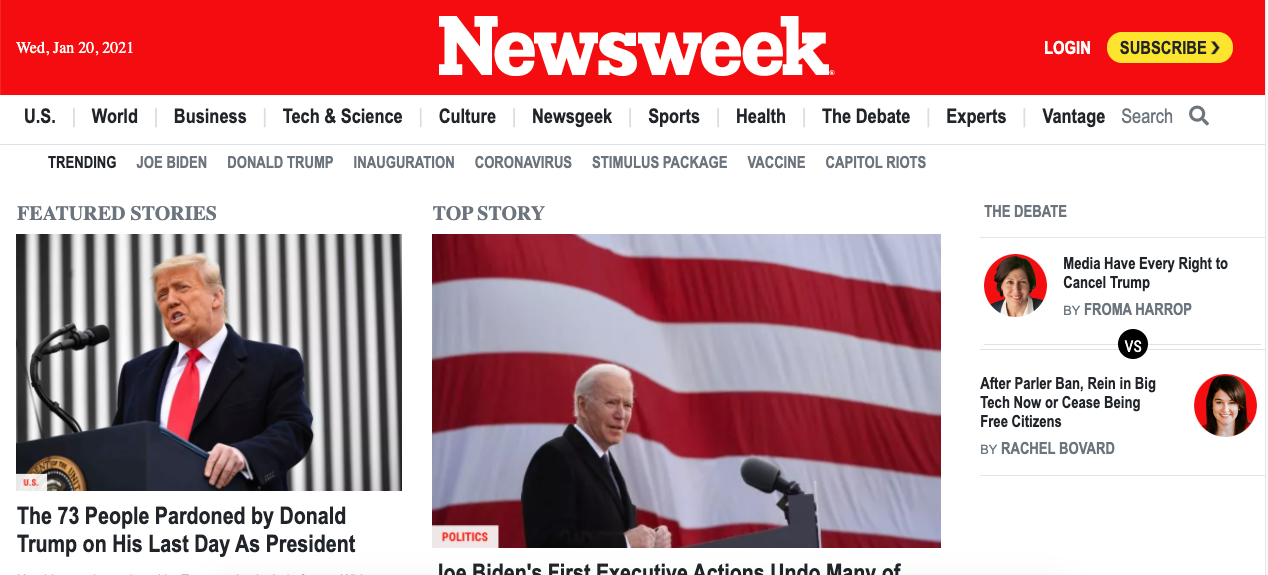
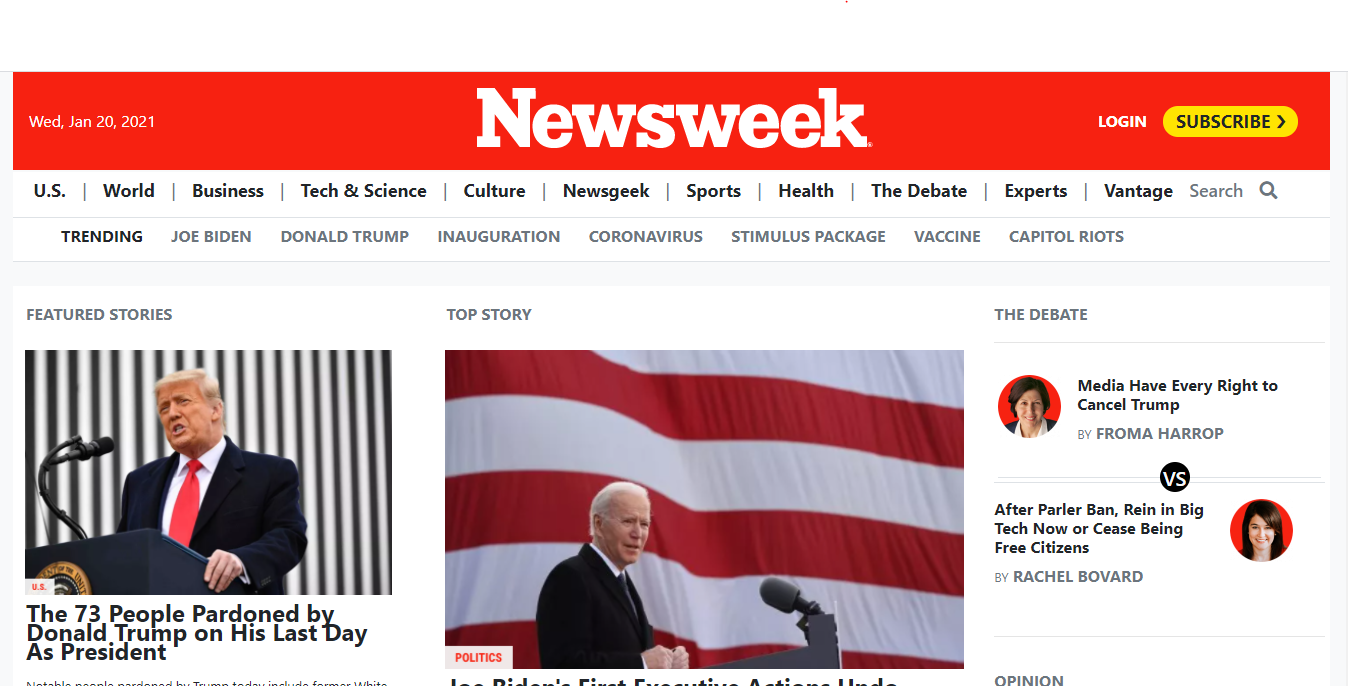
Recreated readme and Fixed all linter errors

diff --git a/index.html b/index.html
@@ -20,13 +20,13 @@
     <!-- Google fonts link -->
     <link rel="preconnect" href="https://fonts.gstatic.com">
     <link href="https://fonts.googleapis.com/css2?family=Roboto+Condensed&display=swap" rel="stylesheet">
-
-    <title>Newsweek</title>
+    <div class="font-weight-bold order-1 h3 text-white mr-3 ml-4 px-2 n-word background my-auto">N</div>
+    <title>Newsweek - News, Analysis, Politics, Business, Technology</title>
 </head>
 
 <body class="bg-light">
-    <header class="mx-xl-5">
-        <nav class="navbar background mx-xl-5 fixed-top py-2 py-md-1 py-lg-3">
+    <header class="mx-xl-3">
+        <nav class="navbar background mx-xl-3 fixed-top py-2 py-md-1 py-lg-3">
             
                 <span class="d-none d-lg-inline-block text-white pr-5">Wed, Jan 20, 2021</span>
             <div>
@@ -47,25 +47,25 @@
             <div class="border-bottom py-2 bg-white">
                 <ul class="list-inline d-flex justify-content-around h5">
                     <li class="list-inline-item font-weight-bold pl-3"><a href="#">U.S.</a></li>
-                    <li class="list-inline-item small">|</li>
+                    <li class="list-inline-item small text-secondary">|</li>
                     <li class="list-inline-item font-weight-bold"><a href="#">World</a></li>
-                    <li class="list-inline-item small">|</li>
+                    <li class="list-inline-item small text-secondary">|</li>
                     <li class="list-inline-item font-weight-bold"><a href="#">Business</a></li>
-                    <li class="list-inline-item small">|</li>
+                    <li class="list-inline-item small text-secondary">|</li>
                     <li class="list-inline-item font-weight-bold"><a href="#">Tech & Science</a></li>
-                    <li class="list-inline-item small">|</li>
+                    <li class="list-inline-item small text-secondary">|</li>
                     <li class="list-inline-item font-weight-bold"><a href="#">Culture</a></li>
-                    <li class="list-inline-item small">|</li>
+                    <li class="list-inline-item small text-secondary">|</li>
                     <li class="list-inline-item font-weight-bold"><a href="#">Newsgeek</a></li>
-                    <li class="list-inline-item small">|</li>
+                    <li class="list-inline-item small text-secondary">|</li>
                     <li class="list-inline-item font-weight-bold"><a href="#">Sports</a></li>
-                    <li class="list-inline-item small">|</li>
+                    <li class="list-inline-item small text-secondary">|</li>
                     <li class="list-inline-item font-weight-bold"><a href="#">Health</a></li>
-                    <li class="list-inline-item small">|</li>
+                    <li class="list-inline-item small text-secondary">|</li>
                     <li class="list-inline-item font-weight-bold"><a href="#">The Debate</a></li>
-                    <li class="list-inline-item small">|</li>
+                    <li class="list-inline-item small text-secondary">|</li>
                     <li class="list-inline-item font-weight-bold"><a href="#">Experts</a></li>
-                    <li class="list-inline-item small">|</li>
+                    <li class="list-inline-item small text-secondary">|</li>
                     <li class="list-inline-item font-weight-bold"><a href="#">Vantage</a></li>
                     <li class="list-inline-item text-secondary">Search</li>
                     <li class="list-inline-item text-secondary pr-5"><i class="fas fa-search"></i></li>
@@ -74,20 +74,20 @@
 
             <div class="border-bottom py-2 bg-white">
                 <ul class="list-inline h6">
-                    <li class="list-inline-item font-weight-bold pr-3 pl-5">TRENDING</li>
-                    <li class="list-inline-item font-weight-bold text-secondary pr-3"><a href="#">JOE BIDEN</a></li>
-                    <li class="list-inline-item font-weight-bold text-secondary pr-3"><a href="#">DONALD TRUMP</a></li>
-                    <li class="list-inline-item font-weight-bold text-secondary pr-3"><a href="#">INAUGURATION</a></li>
-                    <li class="list-inline-item font-weight-bold text-secondary pr-3"><a href="#">CORONAVIRUS</a></li>
-                    <li class="list-inline-item font-weight-bold text-secondary pr-3"><a href="#">STIMULUS PACKAGE</a></li>
-                    <li class="list-inline-item font-weight-bold text-secondary pr-3"><a href="#">VACCINE</a></li>
-                    <li class="list-inline-item font-weight-bold text-secondary pr-3"><a href="#">CAPITOL RIOTS</a></li>
+                    <li class="list-inline-item font-2 font-weight-bold pr-3 pl-5">TRENDING</li>
+                    <li class="list-inline-item font-2 font-weight-bold text-secondary pr-3"><a href="#">JOE BIDEN</a></li>
+                    <li class="list-inline-item font-2 font-weight-bold text-secondary pr-3"><a href="#">DONALD TRUMP</a></li>
+                    <li class="list-inline-item font-2 font-weight-bold text-secondary pr-3"><a href="#">INAUGURATION</a></li>
+                    <li class="list-inline-item font-2 font-weight-bold text-secondary pr-3"><a href="#">CORONAVIRUS</a></li>
+                    <li class="list-inline-item font-2 font-weight-bold text-secondary pr-3"><a href="#">STIMULUS PACKAGE</a></li>
+                    <li class="list-inline-item font-2 font-weight-bold text-secondary pr-3"><a href="#">VACCINE</a></li>
+                    <li class="list-inline-item font-2 font-weight-bold text-secondary pr-3"><a href="#">CAPITOL RIOTS</a></li>
                 </ul>
             </div>
         </nav>
     </header>
 
-    <main class="bg-white mx-xl-5  px-xl-1 pt-xl-3">
+    <main class="bg-white mx-xl-3  px-xl-1 pt-xl-3">
         <div class="all-columns row pr-xl-3">
             <div class="tablet-columns row col-xl-9 m-0 p-0">
                 <!-- column-1 -->
@@ -911,7 +911,7 @@
                                 <div class="order-2 h5 font-weight-bold">START YOUR DAY WITH OUR TOP 5 ARTICLES</div>
                             </div>
                             <input type="email" placeholder="Email address" class="col-10 ml-4 py-1">
-                            <a href="#" class="none-decoration"><div class="col-10  my-2 ml-4 background"><h4 class="text-white py-1 text-center">FREE SIGN UP ></h4></div></a>
+                            <a href="#" class="none-decoration h6"><div class="col-10  my-2 ml-4 background"><h4 class="text-white py-1 text-center h6">FREE SIGN UP ></h4></div></a>
                         </div>
                     </div>
 
@@ -943,7 +943,7 @@
         </div>        
     </main>
 
-    <footer class="bg-white mx-xl-5 mt-1">
+    <footer class="bg-white mx-xl-3 mt-1">
         <div class="row">
             <div class="mt-2 col-md-3 mr-md-2 mr-lg-0 ml-3"><a href="#"><svg height="60px" width="250px" class="logo" fill="#f73710" version="1.1" id="Layer_1" xmlns="http://www.w3.org/2000/svg" xmlns:xlink="http://www.w3.org/1999/xlink" x="0px" y="0px" viewBox="0 0 395.6 60" xml:space="preserve"><g><path class="st0" d="M58.7,10.8h-5.6v48.3H42.8l-25.1-33v22.1h5.6v10.8H0V48.3h5.6V10.8H0V0h17.6L41,30.7V10.8h-5.6V0h23.2	L58.7,10.8L58.7,10.8z M95.8,38c0,0.9,0,1.8-0.1,2.7H70.3c-0.7,8.2,2.4,10.6,7.1,10.6c3.9,0,6.9-2.6,6.9-6.6h11	c-0.3,7.2-4,15.4-18.5,15.4c-14.5,0-21.3-10.5-21.3-22.1c0-10.5,7-21.6,21-21.6C89.9,16.3,95.8,25.6,95.8,38 M159,27.3h-3.7	l-9.4,31.8h-12.5l-5.9-17.4l-5.3,17.4h-12.8L98.8,27.4h-3.7V16.6h22.1v10.7h-5.6l5.8,16.9l7.6-27.6h6.8l9.3,27.6l5-16.9h-5.6V16.6	H159L159,27.3L159,27.3z M174.5,27.8c0,1.5,1.2,2.5,5.4,3.9l6,2c5.5,1.8,12.1,5.9,12.1,13.4c0,8.8-6.6,13-14.7,13	c-6.5,0-11.5-3.2-12.9-4.6V59h-10.8V44.4h10.6c0.3,4.8,4.6,7.3,8.5,7.3c3.2,0,4.7-1.4,4.7-3c0-2-1.2-3.1-6.5-4.8l-5.3-1.8	c-5.4-1.7-11.4-5.7-11.4-12.8c0-8.7,7.7-13.1,14.3-13.1c6.8,0,10.1,1.9,11.8,3.8l0.1-3.3H197v13.3h-11.2c-0.2-3.6-3.7-5.2-7.2-5.2	C175.8,24.8,174.5,26.1,174.5,27.8 M262.8,27.3h-3.7l-9.4,31.8h-12.5l-5.9-17.4L226,59.1h-12.8l-10.6-31.7h-3.7V16.6h22.1v10.7	h-5.6l5.8,16.9l7.6-27.6h6.8l9.3,27.7l5-16.9h-5.6V16.6h18.5V27.3z M302,37.9c0,0.9,0,1.8-0.1,2.7h-25.4	c-0.7,8.2,2.4,10.6,7.1,10.6c3.9,0,6.9-2.6,6.9-6.6h11c-0.3,7.2-4,15.4-18.5,15.4c-14.5,0-21.3-10.5-21.3-22.1	c0-10.5,7-21.6,21-21.6C296.1,16.2,302,25.5,302,37.9 M343.9,37.8c0,0.9,0,1.8-0.1,2.7h-25.4c-0.7,8.2,2.4,10.6,7.1,10.6	c3.9,0,6.9-2.6,6.9-6.6h11c-0.3,7.2-4,15.4-18.5,15.4c-14.5,0-21.3-10.5-21.3-22.1c0-10.5,7-21.6,21-21.6	C338,16.1,343.9,25.4,343.9,37.8 M389.9,59h-12.8l-13.3-17.3l-4.3,3.2v3.4h3.8V59h-19.6V48.3h3.7V10.6h-5.6V0h17.8v33.9l8.9-6.5	h-5.6V16.6h23.9v10.8h-3.7l-9.3,7l10.7,13.9h5.6L389.9,59L389.9,59z M395.6,56.6c0,0.5-0.1,0.9-0.4,1.2c-0.2,0.4-0.5,0.7-0.9,0.9	c-0.4,0.2-0.8,0.4-1.3,0.4c-0.5,0-0.9-0.1-1.2-0.4c-0.4-0.2-0.7-0.5-0.9-0.9c-0.2-0.4-0.4-0.8-0.4-1.2c0-0.5,0.1-0.9,0.4-1.2	c0.2-0.4,0.5-0.7,0.9-0.9c0.4-0.2,0.8-0.4,1.2-0.4c0.5,0,0.9,0.1,1.3,0.4c0.4,0.2,0.7,0.5,0.9,0.9	C395.5,55.8,395.6,56.2,395.6,56.6 M394.6,58c0.4-0.4,0.6-0.9,0.6-1.4c0-0.6-0.2-1-0.6-1.4s-0.9-0.6-1.4-0.6s-1,0.2-1.4,0.6	c-0.4,0.4-0.6,0.9-0.6,1.4c0,0.6,0.2,1,0.6,1.4c0.4,0.4,0.9,0.6,1.4,0.6S394.2,58.4,394.6,58 M393.6,56.8c0.1,0.1,0.2,0.1,0.2,0.1	c0.1,0.1,0.2,0.2,0.2,0.3c0,0,0.2,0.3,0.4,0.8h-0.8c-0.3-0.5-0.4-0.8-0.5-0.9c-0.1-0.1-0.2-0.2-0.3-0.2c0,0-0.1,0-0.1,0v1.1h-0.6	v-2.6h1.2c0.4,0,0.6,0.1,0.7,0.2c0.2,0.2,0.2,0.3,0.2,0.6c0,0.2-0.1,0.4-0.2,0.5C393.9,56.6,393.8,56.7,393.6,56.8 M393.5,56.3	c0.1-0.1,0.1-0.2,0.1-0.3s-0.1-0.2-0.1-0.3c-0.1-0.1-0.2-0.1-0.4-0.1h-0.3v0.7h0.3C393.3,56.4,393.4,56.4,393.5,56.3 M318.4,33.5	h13.9c0-6-3.9-8.4-6.8-8.4C322.1,25.2,318.6,27.9,318.4,33.5 M276.5,33.6h13.9c0-6-3.9-8.4-6.8-8.4C280.3,25.2,276.8,28,276.5,33.6 M70.3,33.7h13.9c0-6-3.9-8.4-6.8-8.4C74.1,25.3,70.6,28.1,70.3,33.7"></path></g><a class="brand" href="https://web.archive.org/web/20210120120435/https://www.newsweek.com/"></a></svg></a>
             </div>

diff --git a/CSS/reset.css b/CSS/reset.css
@@ -48,3 +48,16 @@ header a:hover {
 .space{
   margin-top: 76px;
 }
+
+header a{
+  letter-spacing: 0;
+}
+
+.list-inline-item{
+  font-size: 18px;
+  letter-spacing: 0;
+}
+
+.font-2{
+  font-size: 16px;
+}

diff --git a/CSS/font.css b/CSS/font.css
@@ -13,7 +13,8 @@ button {
 .vc,
 p,
 h4,
-h6{
+h6,
+.list-inline-item {
   font-family: 'Roboto Condensed', sans-serif;
   line-height: 120%;
 }

diff --git a/README.md b/README.md
@@ -1,9 +1,13 @@
 
 ![](https://img.shields.io/badge/Microverse-blueviolet)
 
-# Newsweek
+# Newsweek clone
 
 > In this project, we will replicate the archived version of the website Newsweek with bootstrap.
+This page is clone of <a href="https://web.archive.org/web/20210120125445/https://www.newsweek.com/">Newsweek Page</a>.
+You can compere this web page with real one via demo link.
+The website is fully responsive with the help of three media query breakpoints. This project has been built with help of nodern <button>CSS</button> and <button>Bootstrap</button>.
+
 
 ![screenshot](./screenshot-1.png)
 
@@ -17,6 +21,9 @@
 - HTML
 - Media queries
 - Bootstrap
+- Visual Studio Code
+- Live Server
+- Linters
 
 ## Live Demo
 
@@ -50,3 +57,11 @@ Give a ⭐ if you like this project!
 ## Acknowledgments
 
 - Inspired in this archived version of the website [Newsweek](https://web.archive.org/web/20210120125445/https://www.newsweek.com/)
+
+## 📝License
+
+ 
+Copyright 2021 Ibrohim Rasulov & Zulfizar Abdumurodova.
+
+You can use these page freely to improve your knowledge!
+You can fork it and use as a basis if you want to build your own page!
